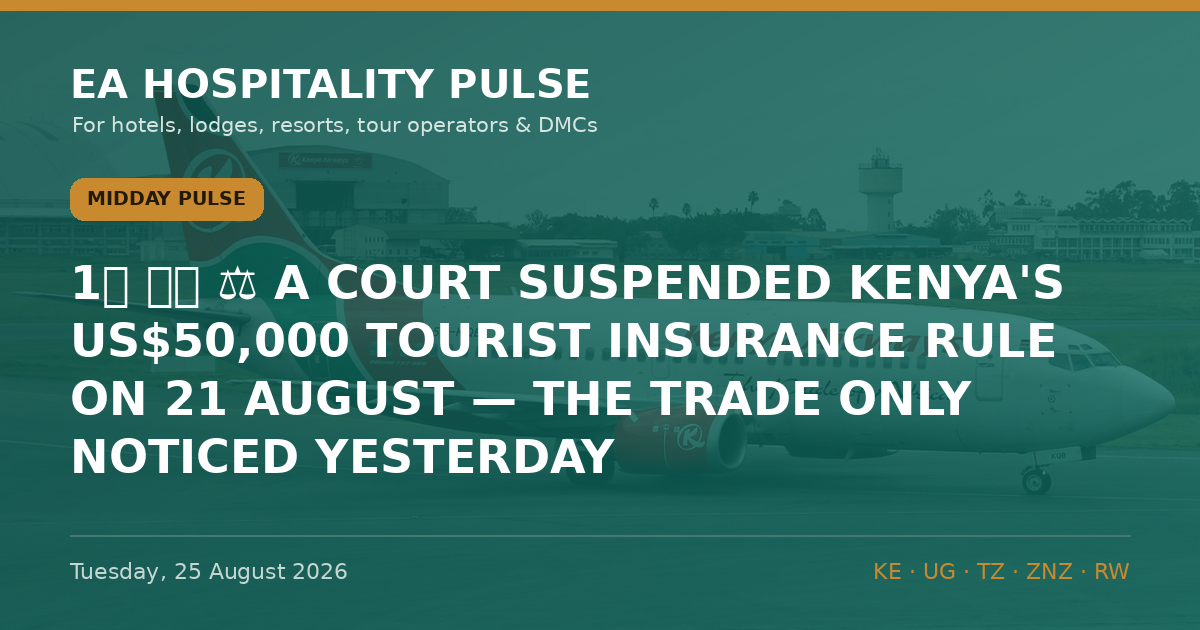
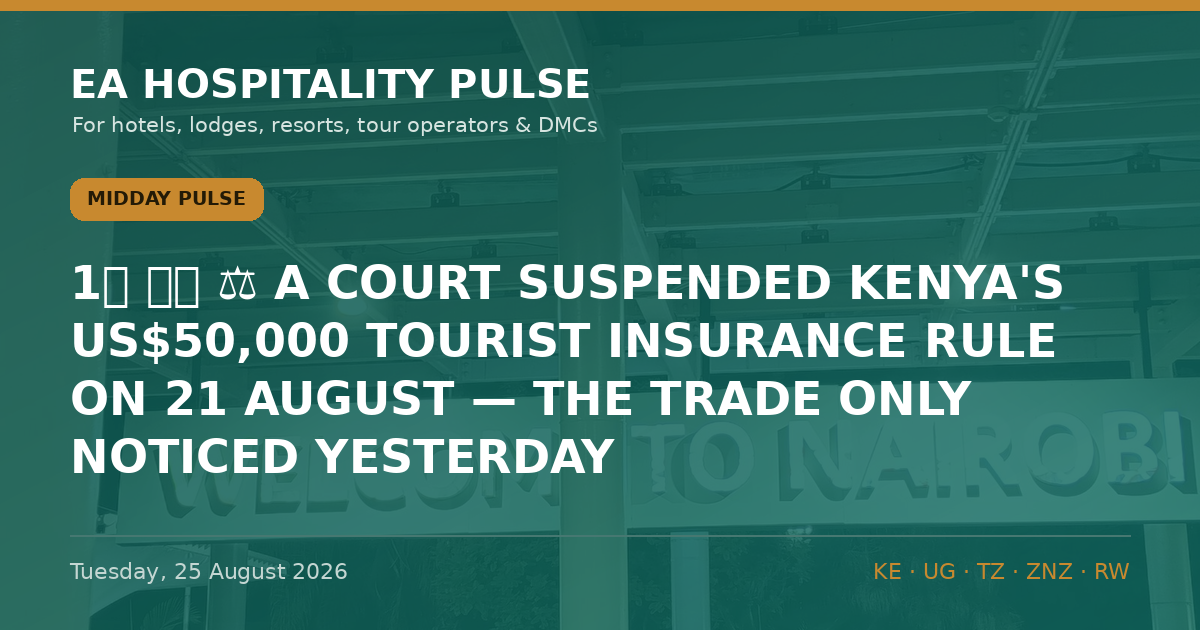
Auto-build: 2026-08-25 07:11 UTC

diff --git a/editions/pulse-2026-08-25-midday.html b/editions/pulse-2026-08-25-midday.html
@@ -153,7 +153,7 @@ footer.s a:hover{color:var(--teal-d);border-bottom-color:var(--gold)}
 <div class="wrap">
   <article class="art">
     <img class="hero" src="../og/pulse-2026-08-25-midday-clean.png" alt="Midday Pulse — Tuesday, 25 August 2026" loading="eager">
-    
+    <p class="hcredit">Photo: Fabricio Cardenas · <a href="https://commons.wikimedia.org/wiki/File:20250805_-_A%C3%A9roport_international_de_Nairobi_01.jpg" target="_blank" rel="noopener nofollow">Wikimedia Commons</a> · <a href="https://creativecommons.org/licenses/by-sa/4.0" target="_blank" rel="noopener nofollow">CC BY-SA 4.0</a></p>
     <nav class="crumbs" aria-label="Breadcrumb"><a href="../index.html">Home</a><span aria-hidden="true">/</span><a href="../index.html#archive">Editions</a><span aria-hidden="true">/</span><span aria-current="page">Midday Pulse, Tuesday, 25 August 2026</span></nav>
     <div class="kicker"><span class="badge">Midday Pulse</span><time datetime="2026-08-25">Tuesday, 25 August 2026</time></div>
     <h1>A Court Suspended Kenya&#x27;s US$50,000 Tourist Insurance Rule on 21 August — the Trade Only Noticed Yesterday.</h1>

diff --git a/index.html b/index.html
@@ -456,7 +456,7 @@
   .imp-demand{color:var(--sage)} .imp-margin{color:var(--coral)} .imp-risk{color:#ff5b5b} .imp-watch{color:var(--amber)}
   @media(max-width:520px){.imp{position:static;display:inline-flex;margin:0 0 9px}.insight h3,.insight .imeta{padding-right:0}}
 </style>
-<!--BUILD_STAMP:20260825-1008--></head>
+<!--BUILD_STAMP:20260825-0710--></head>
 <body>
 <header class="site">
   <div class="wrap topbar">

diff --git a/data.js b/data.js
@@ -2878,4 +2878,4 @@ window.INSIGHTS = [
   "editionKey": "evening"
  }
 ];
-window.BUILT_AT = "2026-08-25 10:08";
+window.BUILT_AT = "2026-08-25 07:10";

diff --git a/ledger.js b/ledger.js
@@ -1,5 +1,5 @@
 window.LEDGER = {
- "updated": "2026-08-25 10:09",
+ "updated": "2026-08-25 07:11",
  "stats": {
   "total": 122,
   "open": 99,
